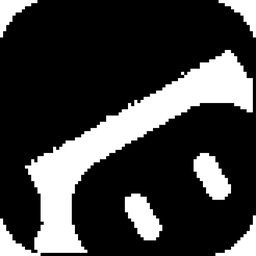
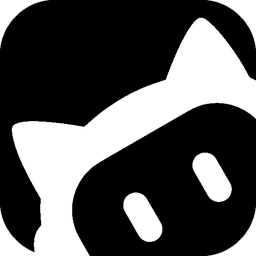
fix: draw WorkBuddy's mark as a knockout, not a solid block
The provider lockups render as template images, so only their alpha channel
reaches the screen. The four existing assets are knockout art (67-81%
transparent: the glyph is what is opaque). WorkBuddy's official lockup is the
opposite — a solid green badge with the shark and the lettering painted inside
it in colour — so a template render collapsed it into two blank white blocks,
which is what the Console chip showed.

Rebuilding both assets from the official image as knockout art fixes it: the
badge becomes ink and the shark becomes negative space, which is the same
figure/ground the official icon has and survives being tinted one colour. The
menu bar icon had a related defect — it was a hand-inverted black-on-white
silhouette, so the shark read as a different mark.

The Console also names a credit balance 「总积分 / Granted credits」 instead of
「总余额 / Granted balance」: credits are a unit of account, not money, and 余额
reads as cash. The title travels on the summary rather than being derived in
the view.

Measures 57.4% transparent, in line with the other four. 1133 expectations
pass; verify.sh green.

Refs #94

diff --git a/Sources/APIInquiryCore/ViewModels/UsageConsoleViewModel.swift b/Sources/APIInquiryCore/ViewModels/UsageConsoleViewModel.swift
@@ -30,6 +30,12 @@ public struct APIProviderSummary: Equatable {
     /// "Total balance" for a prepaid balance, "Detail" for a quota provider.
     public let detailMetricTitle: String
     public let grantedBalanceText: String?
+    /// The title shown above `grantedBalanceText`.
+    ///
+    /// Carried as its own field rather than derived in the view: a credit balance is not
+    /// money, so it says 「赠送积分 / Granted credits」 while a prepaid balance keeps
+    /// 「赠送余额 / Granted balance」. The view reads whatever it is handed.
+    public let grantedBalanceMetricTitle: String
     public let planNameText: String?
     public let manualResetCreditsText: String?
     public let isManualResetCreditsRefreshing: Bool
@@ -55,6 +61,7 @@ public struct APIProviderSummary: Equatable {
         statusMetricValue: String = "",
         detailMetricTitle: String = "",
         grantedBalanceText: String? = nil,
+        grantedBalanceMetricTitle: String = "",
         planNameText: String? = nil,
         manualResetCreditsText: String? = nil,
         isManualResetCreditsRefreshing: Bool = false,
@@ -79,6 +86,7 @@ public struct APIProviderSummary: Equatable {
         self.statusMetricValue = statusMetricValue
         self.detailMetricTitle = detailMetricTitle
         self.grantedBalanceText = grantedBalanceText
+        self.grantedBalanceMetricTitle = grantedBalanceMetricTitle
         self.planNameText = planNameText
         self.manualResetCreditsText = manualResetCreditsText
         self.isManualResetCreditsRefreshing = isManualResetCreditsRefreshing
@@ -180,6 +188,12 @@ public final class UsageConsoleViewModel: ObservableObject {
             let validationStatusText = validationStatusText(for: state)
             let isCredentialConfigured = coordinator.isCredentialConfigured(for: id)
             let isCodexProvider = id == .codex
+            // A credit balance is denominated in credits rather than money, which the
+            // Console mirrors in its metric titles.
+            let isCreditBalance: Bool = {
+                guard case .balance(let balance) = state.lastSnapshot else { return false }
+                return ProviderValueFormatter.isCreditCurrency(balance.currency)
+            }()
             return APIProviderSummary(
                 id: id,
                 displayName: descriptor.displayName,
@@ -207,12 +221,17 @@ public final class UsageConsoleViewModel: ObservableObject {
                 statusMetricValue: isCodexProvider
                     ? (ProviderDisplayFormatter.creditsBalanceText(for: state.lastSnapshot, strings: strings) ?? "--")
                     : validationStatusText,
-                detailMetricTitle: descriptor.detailKind == .balance
-                    ? strings.totalBalanceMetricTitle
-                    : strings.detailMetricTitle,
+                detailMetricTitle: isCreditBalance
+                    ? strings.totalCreditsMetricTitle
+                    : (descriptor.detailKind == .balance
+                        ? strings.totalBalanceMetricTitle
+                        : strings.detailMetricTitle),
                 grantedBalanceText: state.lastSnapshot.map {
                     ProviderSnapshotPresentation.make(from: $0, strings: strings).grantedBalanceText
                 } ?? nil,
+                grantedBalanceMetricTitle: isCreditBalance
+                    ? strings.grantedCreditsMetricTitle
+                    : strings.grantedBalanceMetricTitle,
                 planNameText: isCodexProvider ? nil : state.lastQuotaUsageSnapshot?.planName,
                 manualResetCreditsText: isCodexProvider && isCredentialConfigured
                     ? codexManualResetCreditsSummaryText()

diff --git a/Sources/APIInquiryCoreTestsRunner/WorkBuddyProviderTests.swift b/Sources/APIInquiryCoreTestsRunner/WorkBuddyProviderTests.swift
@@ -346,6 +346,17 @@ enum WorkBuddyProviderTests {
         )
         harness.expectEqual(presentation.trailingText, "积分", "the trailing cell is the unit")
         harness.expectEqual(presentation.leadingText, "", "credits carry no symbol")
+
+        // The Console names the credit metric 「总积分」 rather than 「总余额」: credits are a
+        // unit of account, and 余额 reads as cash. A prepaid balance keeps the old copy.
+        harness.expectEqual(chinese.totalCreditsMetricTitle, "总积分", "chinese credit title")
+        harness.expectEqual(chinese.grantedCreditsMetricTitle, "赠送积分", "chinese granted credit title")
+        harness.expectEqual(english.totalCreditsMetricTitle, "Total credits", "english credit title")
+        harness.expectEqual(english.grantedCreditsMetricTitle, "Granted credits", "english granted credit title")
+        harness.expectTrue(
+            chinese.totalBalanceMetricTitle != chinese.totalCreditsMetricTitle,
+            "a credit balance and a money balance are named differently"
+        )
     }
 
     // MARK: - Provider

diff --git a/Sources/APIInquiryCore/Localization/LocalizedStrings.swift b/Sources/APIInquiryCore/Localization/LocalizedStrings.swift
@@ -93,6 +93,14 @@ public struct LocalizedStrings: Equatable {
     public var detailMetricTitle: String { text(en: "Detail", zh: "详情") }
     public var totalBalanceMetricTitle: String { text(en: "Total balance", zh: "总余额") }
     public var grantedBalanceMetricTitle: String { text(en: "Granted balance", zh: "赠送余额") }
+
+    /// Console titles for a credit balance.
+    ///
+    /// Credits are a unit of account, not money, so "balance" reads slightly wrong for
+    /// them — 余额 carries a monetary connotation in Chinese and "balance" implies cash in
+    /// English. The provider's own vocabulary is 「积分」, so the credit case says so.
+    public var totalCreditsMetricTitle: String { text(en: "Total credits", zh: "总积分") }
+    public var grantedCreditsMetricTitle: String { text(en: "Granted credits", zh: "赠送积分") }
     /// Label for a balance provider's row in the secondary provider grid.
     public var balanceRowLabel: String { text(en: "Balance", zh: "余额") }
     public var planMetricTitle: String { text(en: "Plan", zh: "计划") }

diff --git a/Sources/APIInquiryApp/Console/UsageConsoleHomeSection.swift b/Sources/APIInquiryApp/Console/UsageConsoleHomeSection.swift
@@ -90,7 +90,7 @@ struct ProviderStatusRow: View {
 
         if let grantedBalanceText = summary.grantedBalanceText {
             metrics.append(
-                ProviderMetricItem(title: strings.grantedBalanceMetricTitle, value: grantedBalanceText)
+                ProviderMetricItem(title: summary.grantedBalanceMetricTitle, value: grantedBalanceText)
             )
         }
 
